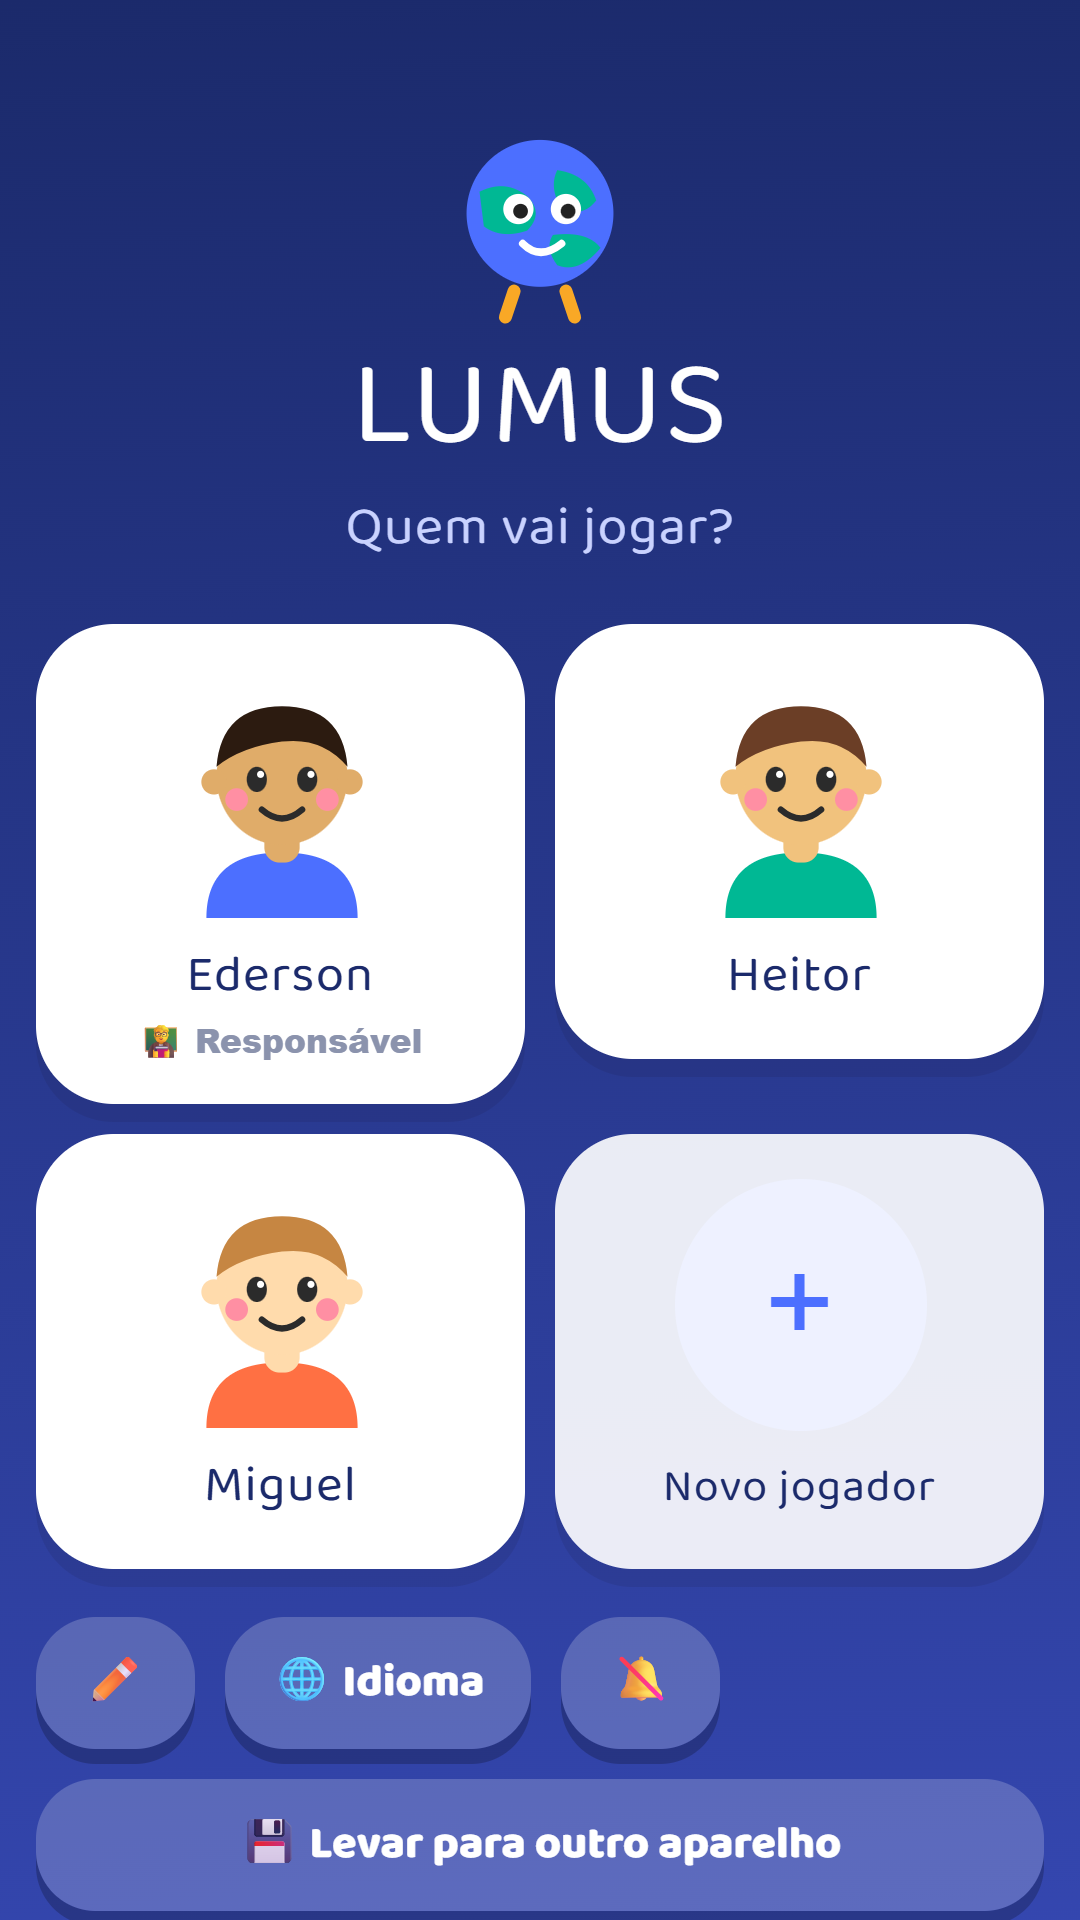
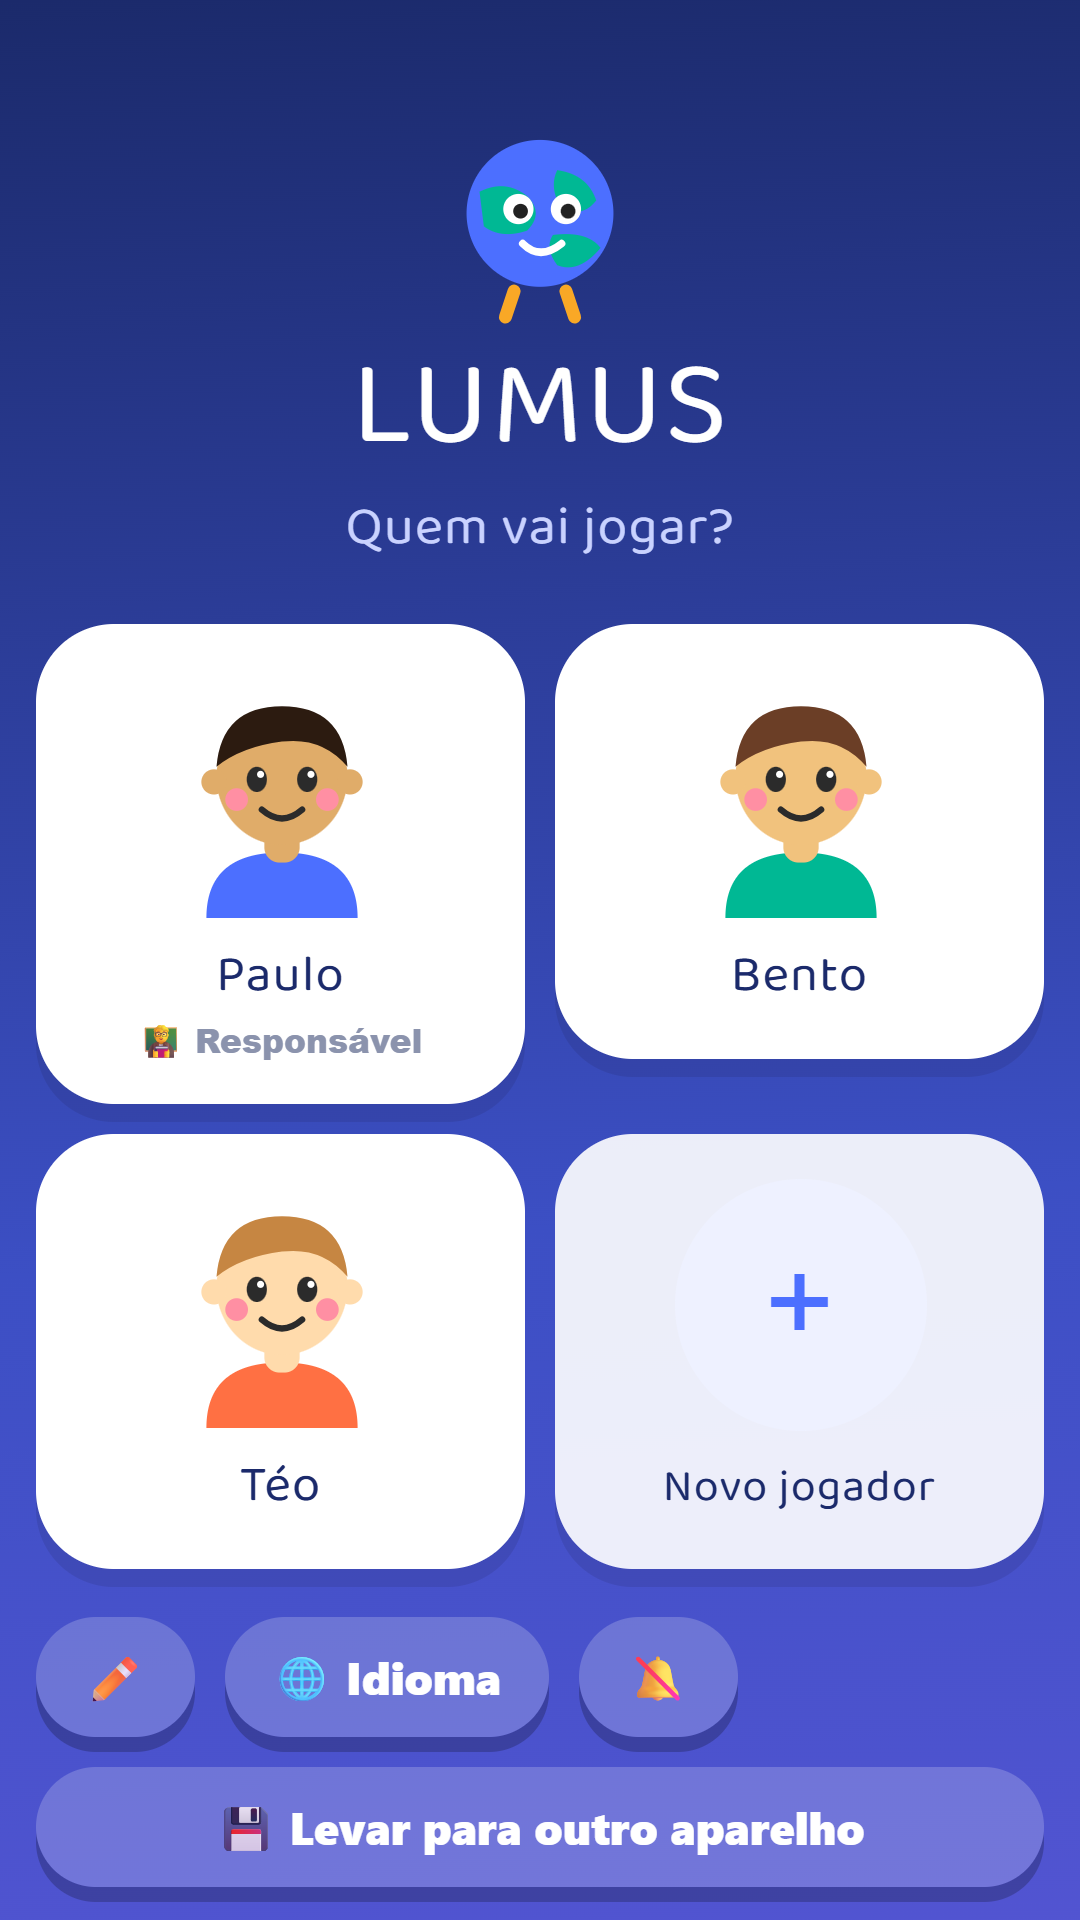
As capturas de celular refeitas com nomes inventados
Eram Ederson, Heitor e Miguel — nomes reais da família numa ficha de
loja pública, global e permanente, ao lado do CNPJ e do endereço da
empresa. Agora são Paulo, Bento e Téo, os mesmos das capturas de tablet.

O README afirmava desde o começo que nenhuma criança real aparecia. A
frase era falsa quando foi escrita; agora é verdadeira. A nota de
correção fica no arquivo, porque a versão errada chegou a ser publicada.

Refazer as seis custou minutos, e não a meia hora que o README previa,
porque agora existe scripts/capturas-loja.js.

Changed region(s): [[0.0, 0.2812, 1.0, 1.0], [0.1833, 0.75, 0.3361, 0.7812], [0.1833, 0.5, 0.3361, 0.5312]]

diff --git a/docs/loja/README.md b/docs/loja/README.md
@@ -40,20 +40,17 @@ O gráfico de destaque é desenhado em `canvas` dentro da própria página do ap
 para usar as fontes reais (Baloo 2 e Nunito) e o mascote do
 `src/telas/base.jsx`, e não uma imitação.
 
-Nenhum dado de ninguém saiu do aparelho para produzir isto.
+Os perfis são inventados: **Paulo, Bento e Téo**. Nenhuma criança real aparece,
+e nenhum dado de ninguém saiu do aparelho para produzir isto.
 
-> ⚠ **CORREÇÃO.** Esta seção dizia "os dados dos perfis são de teste, nenhuma
-> criança real aparece". **A segunda metade era falsa**: os perfis destas seis
-> imagens são *Ederson, Heitor e Miguel* — nomes reais da família. Os avatares
-> são desenhos e não há foto, sobrenome nem idade exposta, mas são primeiros
-> nomes de crianças reais numa ficha de loja pública, global e permanente, ao
-> lado do CNPJ e do endereço da empresa.
->
-> As capturas de tablet em `tablet/` foram feitas com nomes inventados (Paulo,
-> Bento, Téo). Os dois conjuntos estão inconsistentes **de propósito**, à espera
-> de decisão: refazer estas seis com nomes inventados, ou refazer as de tablet
-> com os nomes reais. Refazer qualquer um dos lados são poucos minutos agora que
-> existe `scripts/capturas-loja.js`.
+> **Nota de correção.** Até 07/09/2026 esta seção afirmava que nenhuma criança
+> real aparecia — e era falso: os perfis eram *Ederson, Heitor e Miguel*, nomes
+> reais da família. As seis imagens foram **refeitas** com nomes inventados
+> (Paulo, Bento, Téo), e agora a frase acima é verdadeira. Fica registrado
+> porque a versão errada chegou a ser publicada no repositório.
+
+Os números da semana nos perfis são massa de teste plausível, montada para a
+tela do responsável não aparecer vazia na ficha.
 
 ## Quando refazer
 

diff --git a/docs/loja/tablet/README.md b/docs/loja/tablet/README.md
@@ -55,12 +55,9 @@ mesma tela chegam quase juntos e a ordem não é garantida: numa das rodadas o
 
 ## Os nomes dos perfis
 
-Aqui os perfis são **Paulo, Bento e Téo** — nomes inventados.
-
-⚠ As capturas de celular em `../` mostram **Ederson, Heitor e Miguel**, que são
-nomes reais da família. Os dois conjuntos estão inconsistentes de propósito, à
-espera de decisão: ou as de celular são refeitas com nomes inventados, ou estas
-são refeitas com os nomes reais.
+**Paulo, Bento e Téo** — inventados, e os mesmos das capturas de celular em
+`../`, que foram refeitas em 07/09/2026 para bater com estas. Nenhuma criança
+real aparece em nenhum dos dois conjuntos.
 
 Os números da semana nos perfis são massa de teste plausível, montada para a
 tela do responsável não aparecer vazia na ficha. Nenhum dado de ninguém saiu do
